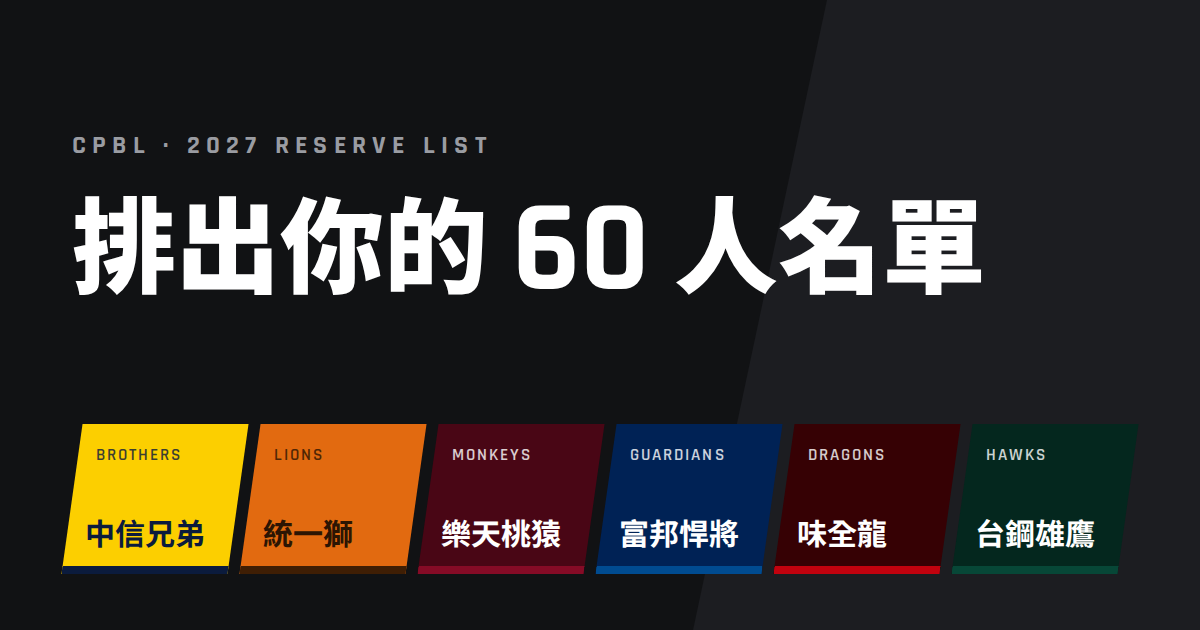
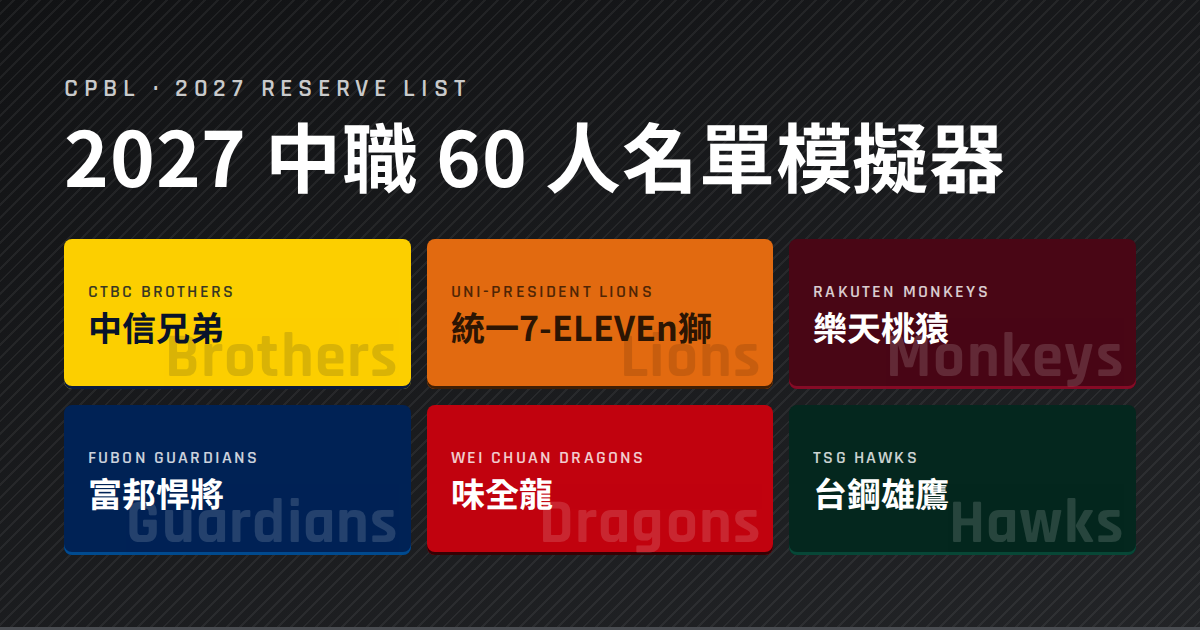
feat: 網址預覽與複製文字更新、LINE 改顯示不支援匯出
- 網站與預覽標題改「2027 中職 60 人名單模擬器」，拿掉描述與圖片說明，各頁共用標題
- og.png 依目前設計重畫，產生腳本存為 scripts/og.mjs
- 複製文字：首行「我的〇〇 2027 60 人契約保留名單」、不列背號、末行只放網址
- LINE 內建瀏覽器：圖片面板改顯示不支援匯出，隱藏下載與分享（roadmap P2-18）

diff --git a/docs/app.js b/docs/app.js
@@ -5,7 +5,7 @@ const GN={P:"投手",C:"捕手",I:"內野手",O:"外野手"}, GEN={P:"Pitchers",
 // ageOn(), cornerBadge(), cardNote(), isRookie() come from card.js (loaded first); mineVsFans() from mine.js.
 // posMatch(), filterMatch(), railCounts() from filter.js; RANK_PREVIEW, rankParts(), rankToggleText() from rank.js. LIMIT comes from limit.js; FLAGS from flags.js; offAnswer() etc. from official.js (both loaded first).
 // statLine(), statTier(), statsShown(), tileTitle(), playerHead(), CAP_MSG come from stats.js; saveState(), needsConfirm(),
-// submitError(), sameTally(), statsStale(), hhmm() from status.js; isInAppBrowser() from flags.js (loaded first).
+// submitError(), sameTally(), statsStale(), hhmm() from status.js; isInAppBrowser(), isLineBrowser() from flags.js (loaded first).
 const EXEMPT=[["foreign","洋將"],["training","自主／自行培訓"],["fa","行使國內 FA"],["expansion","擴編選秀被選走"],["removed","已非球員"]];
 const $=id=>document.getElementById(id);
 function el(tag,attrs={},...kids){
@@ -128,7 +128,6 @@ function route(){
   saved=null;savedAt=null;mineFailed=false;mineRetries=0;clearTimeout(mineRetryTimer);stats=null;statsAt=0;rankOpen=false;pos="all";showFilter="all";q="";$("q").value="";
   disarmSave();
   applyTheme(t);
-  document.title=t.short+"契約保留名單｜中職 60 人名單模擬";
   $("kicker").textContent=t.en+" · 2027 Reserve List";
   $("h1").textContent="排出你的"+t.name+" 60 人契約保留名單";
   markTeam(t);$("teamSwBox").hidden=AVAIL.length<2;
@@ -143,7 +142,6 @@ function showPicker(){
   clearInterval(statsTimer);
   $("heroOff").hidden=true;
   applyTheme(NEUTRAL);
-  document.title="中職契約保留名單｜各隊 60 人名單模擬";
   $("kicker").textContent="CPBL · 2027 Reserve List";
   $("h1").textContent="排出你支持球隊的 60 人契約保留名單";
   $("exempt").replaceChildren();$("teamSwBox").hidden=true;$("heroEx").hidden=false;
@@ -676,10 +674,10 @@ function groupsOf(){return GORD.split("").map(g=>({g,on:ROSTER.filter(p=>p.g===g
 function droppedPlayers(){return ROSTER.filter(p=>!sel.has(p.id)).sort(sortP)}
 function listText(){
   const gs=groupsOf(),dropped=droppedPlayers();
-  const L=[T.name+" 2027 年度契約保留球員名單（我的版本）","保留 "+sel.size+" / "+LIMIT+" 人｜"+gs.map(x=>GN[x.g]+" "+x.on.length).join("、"),""];
-  for(const x of gs){if(!x.on.length)continue;L.push("【"+GN[x.g]+" "+x.on.length+"】",x.on.map(p=>p.no+" "+p.n).join("、"),"")}
-  if(dropped.length)L.push("【未保留 "+dropped.length+"】",dropped.map(p=>p.no+" "+p.n).join("、"),"");
-  L.push("— 排你的名單："+location.origin+location.pathname+"#"+T.slug); // no query string (fbclid etc.)
+  const L=["我的"+T.name+" 2027 "+LIMIT+" 人契約保留名單","保留 "+sel.size+" / "+LIMIT+" 人｜"+gs.map(x=>GN[x.g]+" "+x.on.length).join("、"),""];
+  for(const x of gs){if(!x.on.length)continue;L.push("【"+GN[x.g]+" "+x.on.length+"】",x.on.map(p=>p.n).join("、"),"")}
+  if(dropped.length)L.push("【未保留 "+dropped.length+"】",dropped.map(p=>p.n).join("、"),"");
+  L.push(location.origin+location.pathname+"#"+T.slug); // no query string (fbclid etc.)
   return L.join("\n");
 }
 let toastT=0;
@@ -835,15 +833,17 @@ $("mkImg").onclick=async()=>{
     const blob=await new Promise(r=>cv.toBlob(r,"image/png"));if(!blob)throw 0;
     if(sheetUrl)URL.revokeObjectURL(sheetUrl);sheetUrl=URL.createObjectURL(blob);
     const fname=T.short+"契約保留名單.png";
-    const acts=[el("a",{class:"btn",href:sheetUrl,download:fname},el("span",{text:"下載 PNG"}))];
+    const line=isLineBrowser(navigator.userAgent); // LINE cannot save the image at all: no download, just the notice
+    const acts=line?[]:[el("a",{class:"btn",href:sheetUrl,download:fname},el("span",{text:"下載 PNG"}))];
     const file=new File([blob],fname,{type:"image/png"});
-    if(navigator.canShare&&navigator.canShare({files:[file]})){
+    if(!line&&navigator.canShare&&navigator.canShare({files:[file]})){
       const sh=el("button",{class:"btn"},el("span",{text:"分享"}));
       sh.onclick=async()=>{try{await navigator.share({files:[file],title:T.name+"契約保留名單"})}catch(e){}};acts.push(sh);
     }
     // The preview is a data: URL (not the blob URL): some in-app browsers cannot long-press-save blob images.
     const kids=[el("img",{class:"shot",src:cv.toDataURL("image/png"),alt:"我的契約保留球員名單"})];
-    if(isInAppBrowser(navigator.userAgent))kids.push(el("p",{class:"hint inapp",text:"長按圖片可存到相簿；無法儲存請改用 Safari／Chrome 開啟。"}));
+    if(line)kids.push(el("p",{class:"hint inapp",text:"LINE 不支援匯出圖片，請改用 Safari／Chrome 開啟。"}));
+    else if(isInAppBrowser(navigator.userAgent))kids.push(el("p",{class:"hint inapp",text:"長按圖片可存到相簿；無法儲存請改用 Safari／Chrome 開啟。"}));
     else if(matchMedia("(pointer:coarse)").matches)kids.push(el("p",{class:"hint",text:"長按圖片可存到相簿。"}));
     openSheet("名單圖片",kids,b,acts);
   }catch(e){toast("圖片產生失敗，請再試一次")}

diff --git a/docs/index.html b/docs/index.html
@@ -3,16 +3,13 @@
 <head>
 <meta charset="utf-8">
 <meta name="viewport" content="width=device-width,initial-scale=1,viewport-fit=cover">
-<title>中職契約保留名單｜各隊 60 人名單模擬</title>
-<meta name="description" content="排出中職六隊 2027 年度 60 人契約保留名單，並看看其他球迷怎麼選。">
-<meta property="og:title" content="中職契約保留名單｜排出你支持球隊的 60 人名單">
-<meta property="og:description" content="選出你心中的 60 人契約保留名單，看看其他球迷怎麼選。">
+<title>2027 中職 60 人名單模擬器</title>
+<meta property="og:title" content="2027 中職 60 人名單模擬器">
 <meta property="og:type" content="website">
 <meta property="og:url" content="https://s22shadowl.github.io/cpbl-reserve-list-2026/">
 <meta property="og:image" content="https://s22shadowl.github.io/cpbl-reserve-list-2026/og.png">
 <meta property="og:image:width" content="1200">
 <meta property="og:image:height" content="630">
-<meta property="og:image:alt" content="排出你的 60 人名單：中職六隊契約保留名單模擬">
 <meta name="twitter:card" content="summary_large_image">
 <meta name="theme-color" content="#111214">
 <script>(function(){try{var t=localStorage.getItem("rl-theme");if(t==="light"||t==="dark")document.documentElement.dataset.theme=t}catch(e){}})()</script>

diff --git a/docs/flags.js b/docs/flags.js
@@ -7,3 +7,5 @@ const IS_LOCAL=LOCAL_HOSTS.includes(location.hostname);
 const FLAGS={official:IS_LOCAL};
 // In-app browsers (LINE, Facebook, Instagram, Threads) often cannot download or long-press-save images (P1-6).
 function isInAppBrowser(ua){return/\bLine\/|FBAN|FBAV|Instagram|Barcelona|Threads/i.test(String(ua||""))}
+// LINE's in-app browser cannot export the image by any route (download, long-press or share), so the sheet says so.
+function isLineBrowser(ua){return/\bLine\//.test(String(ua||""))}

diff --git a/roadmap.md b/roadmap.md
@@ -11,11 +11,11 @@
 
 ## 目前狀態（2026-11-22）
 
-P0、P2 全部完成（2026-11-19 新增 P2-11 刪減模式並上線；2026-11-22 P2-12 讓只靠 hover 的提示在手機上也看得到、P2-13 分享圖片改 4:5 與圖片面板減法、P2-14 統計頁減法、P2-15 選隊頁與 hero 減法、P2-16 頂端列配色跟隊色與照片不再閃爍、P2-17 用字統一）；P1 除 P1-3 外皆已完成（含 P1-6 上線前功能補強、P1-7 程式碼整理）。2026-11-17 Worker 已部署，使用者本機測試 P1-6／P1-7（含鎖定狀態）後修正：提示訊息改隊色通知條（電腦版在頂端列下方）、換隊改自製選單、守位人數跟著篩選與搜尋、統計頁守位列不可點、保留率排行預設只顯示前 20 名（第 21～60 名可展開）、存圖未列入區背號對齊、圖片面板按鈕 hover。P1-3 對答案已實作，正式站開關關閉中，等聯盟 11/30 公布名單後上線。P3 目前沒有項目。
+P0、P2 全部完成（2026-11-19 新增 P2-11 刪減模式並上線；2026-11-22 P2-12 讓只靠 hover 的提示在手機上也看得到、P2-13 分享圖片改 4:5 與圖片面板減法、P2-14 統計頁減法、P2-15 選隊頁與 hero 減法、P2-16 頂端列配色跟隊色與照片不再閃爍、P2-17 用字統一、P2-18 分享預覽與複製文字）；P1 除 P1-3 外皆已完成（含 P1-6 上線前功能補強、P1-7 程式碼整理）。2026-11-17 Worker 已部署，使用者本機測試 P1-6／P1-7（含鎖定狀態）後修正：提示訊息改隊色通知條（電腦版在頂端列下方）、換隊改自製選單、守位人數跟著篩選與搜尋、統計頁守位列不可點、保留率排行預設只顯示前 20 名（第 21～60 名可展開）、存圖未列入區背號對齊、圖片面板按鈕 hover。P1-3 對答案已實作，正式站開關關閉中，等聯盟 11/30 公布名單後上線。P3 目前沒有項目。
 
 ### 待辦
 
-- **上線後實機測試**：LINE／Threads／FB 內建瀏覽器存圖。
+- **上線後實機測試**：iOS Safari（存圖的長按／分享／下載、複製文字、長按球員卡、瀏海與底部安全區）；FB／IG／Threads 內建瀏覽器存圖。LINE 已確認無法匯出圖片（P2-18 改顯示提示）。
 - **P1-3 上線**：步驟見 P1-3「上線步驟」（先鎖定 Worker 再推前端）；開啟前先跑 `cd e2e && npm test`。
 - **11/30 前後手動灌票檢查**：指令在 CLAUDE.md「灌票檢查」。
 - **P2-11 補 E2E**：清空後再切換模式需要確認、鎖定後仍可切換模式、挑選模式沒有草稿時從空名單開始。
@@ -345,6 +345,13 @@ P0、P2 全部完成（2026-11-19 新增 P2-11 刪減模式並上線；2026-11-2
 - 網站名「名簿」改「名單」（`<title>`、og:title、各頁 `document.title`、README 標題）。
 - 空值統一用「–」（KPI 改用 stats.js 的 `NO_VALUE`）。
 - 測試：只有規則文字（不需列入分類）與切換模式訊息（bug 修正，兩個方向都測）釘住文字，其餘改驗結構與數字。
+
+### P2-18 分享預覽與複製文字（已完成，2026-11-22）
+- 連結預覽圖 `docs/og.png`（1200×630）原本是舊設計（斜切 hero、平行四邊形隊伍卡），改用 `scripts/og.mjs` 依目前設計產生並保留在 repo：中性 D1 色帶（細斜線＋band→accent 漸層、3px 底線）、kicker、標題「2027 中職 60 人名單模擬器」與選隊頁的六張隊伍卡（`cardColors`、英文末字浮水印）。顏色從 `docs/theme.js` 讀，字型用 Google Fonts，截圖前等所有字形載入。
+- 網站名改「2027 中職 60 人名單模擬器」（`<title>`、og:title）；球隊頁也用同一個標題，`app.js` 不再改 `document.title`。拿掉 `meta description`、`og:description`、`og:image:alt`，連結預覽只留標題與圖。
+- 複製文字：第一行「我的{隊名} 2027 60 人契約保留名單」；各分組只列姓名、不列背號；最後一行只放該隊網址（仍不帶查詢字串），拿掉「— 排你的名單：」。
+- LINE 內建瀏覽器無法匯出圖片（下載、長按、分享都不行）：`flags.js` 新增 `isLineBrowser`，圖片面板在 LINE 顯示「LINE 不支援匯出圖片，請改用 Safari／Chrome 開啟。」並拿掉下載與分享按鈕，預覽圖保留。其他內建瀏覽器（FB／IG／Threads）維持長按提示與下載。
+- 測試：`isLineBrowser` 單元測試；E2E 複製文字改以姓名對回球員（先確認同隊姓名不重複），驗證第一行格式與最後一行是該隊網址；內建瀏覽器測試分成 FB（提示＋保留下載）與 LINE（提示文字、沒有下載）。
 
 ---
 

diff --git a/README.md b/README.md
@@ -67,6 +67,8 @@ python3 -m http.server -d docs 8080 --bind 127.0.0.1    # 前端：http://localh
 
 修改後要強制重新整理（Ctrl+Shift+R），`http.server` 會讓瀏覽器快取舊檔。
 
+連結預覽圖 `docs/og.png`（1200×630）由 `node scripts/og.mjs` 依目前的隊色與選隊頁設計產生（用 `e2e/` 的 Playwright，需先在 `e2e/` 執行 `npm install` 與 `npm run install-browser`；需要網路載入 Google Fonts）。加上輸出路徑參數可先產生到別處預覽。
+
 ## 測試
 
 | 範圍 | 指令 |
